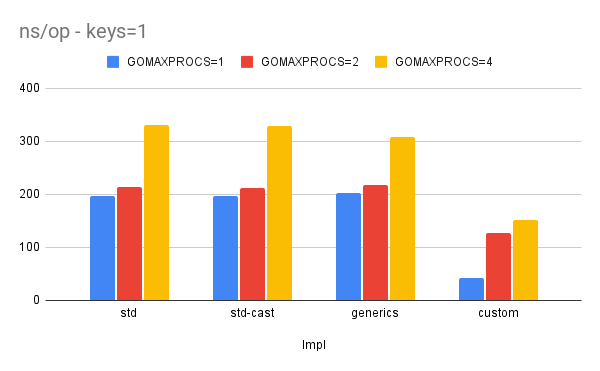
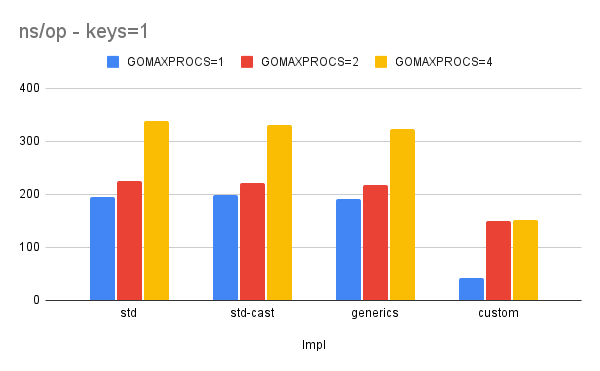
update benchmark results and images for Go 1.25.1

diff --git a/benchmark/README.md b/benchmark/README.md
@@ -20,36 +20,35 @@ This repository benchmarks different implementations of the singleflight pattern
 
 ## Benchmark Results
 
-EC2 c7g.xlarge (Graviton3, 4 vCPU) / Debian 13 / Go 1.25.0
+EC2 c7g.xlarge (Graviton3, 4 vCPU) / Debian 13 / Go 1.25.1
 
 ```
 goos: linux
 goarch: arm64
-pkg: github.com/catatsuy/cache/benchmark
-BenchmarkSingleflight/std/keys=1                18591908               196.6 ns/op            88 B/op          1 allocs/op
-BenchmarkSingleflight/std/keys=1-2              16908397               213.3 ns/op            87 B/op          1 allocs/op
-BenchmarkSingleflight/std/keys=1-4              10718676               331.7 ns/op            82 B/op          1 allocs/op
-BenchmarkSingleflight/std-cast/keys=1           18222015               197.3 ns/op            88 B/op          1 allocs/op
-BenchmarkSingleflight/std-cast/keys=1-2         16597257               212.4 ns/op            87 B/op          1 allocs/op
-BenchmarkSingleflight/std-cast/keys=1-4         10827585               329.7 ns/op            82 B/op          1 allocs/op
-BenchmarkSingleflight/generics/keys=1           17918259               202.7 ns/op            80 B/op          1 allocs/op
-BenchmarkSingleflight/generics/keys=1-2         16597784               217.6 ns/op            79 B/op          0 allocs/op
-BenchmarkSingleflight/generics/keys=1-4         11186880               308.9 ns/op            75 B/op          0 allocs/op
-BenchmarkSingleflight/custom/keys=1             79731640                42.67 ns/op            0 B/op          0 allocs/op
-BenchmarkSingleflight/custom/keys=1-2           24880732               127.3 ns/op             0 B/op          0 allocs/op
-BenchmarkSingleflight/custom/keys=1-4           25826616               152.3 ns/op             0 B/op          0 allocs/op
-BenchmarkSingleflight/std/keys=10               18039288               199.9 ns/op            88 B/op          1 allocs/op
-BenchmarkSingleflight/std/keys=10-2             17164132               206.7 ns/op            87 B/op          1 allocs/op
-BenchmarkSingleflight/std/keys=10-4             12818521               282.4 ns/op            86 B/op          1 allocs/op
-BenchmarkSingleflight/std-cast/keys=10          18266598               199.8 ns/op            88 B/op          1 allocs/op
-BenchmarkSingleflight/std-cast/keys=10-2        17554419               204.8 ns/op            87 B/op          1 allocs/op
-BenchmarkSingleflight/std-cast/keys=10-4        12830840               281.9 ns/op            86 B/op          1 allocs/op
-BenchmarkSingleflight/generics/keys=10          17554911               200.8 ns/op            80 B/op          1 allocs/op
-BenchmarkSingleflight/generics/keys=10-2        16990652               211.6 ns/op            79 B/op          0 allocs/op
-BenchmarkSingleflight/generics/keys=10-4        12554142               286.3 ns/op            78 B/op          0 allocs/op
-BenchmarkSingleflight/custom/keys=10            69217628                49.34 ns/op            0 B/op          0 allocs/op
-BenchmarkSingleflight/custom/keys=10-2          32092108               113.9 ns/op             0 B/op          0 allocs/op
-BenchmarkSingleflight/custom/keys=10-4          21601365               164.6 ns/op             7 B/op          0 allocs/op
+BenchmarkSingleflight/std/keys=1                18832320               195.1 ns/op            88 B/op          1 allocs/op
+BenchmarkSingleflight/std/keys=1-2              15887760               225.8 ns/op            87 B/op          1 allocs/op
+BenchmarkSingleflight/std/keys=1-4              10460737               337.7 ns/op            82 B/op          1 allocs/op
+BenchmarkSingleflight/std-cast/keys=1           18096949               198.7 ns/op            88 B/op          1 allocs/op
+BenchmarkSingleflight/std-cast/keys=1-2         16042627               221.6 ns/op            87 B/op          1 allocs/op
+BenchmarkSingleflight/std-cast/keys=1-4         10191168               331.6 ns/op            82 B/op          1 allocs/op
+BenchmarkSingleflight/generics/keys=1           18848503               191.7 ns/op            80 B/op          1 allocs/op
+BenchmarkSingleflight/generics/keys=1-2         16614574               217.5 ns/op            79 B/op          0 allocs/op
+BenchmarkSingleflight/generics/keys=1-4         11035903               323.9 ns/op            75 B/op          0 allocs/op
+BenchmarkSingleflight/custom/keys=1             91318575                42.49 ns/op            0 B/op          0 allocs/op
+BenchmarkSingleflight/custom/keys=1-2           26094780               149.9 ns/op             0 B/op          0 allocs/op
+BenchmarkSingleflight/custom/keys=1-4           23411012               151.2 ns/op             0 B/op          0 allocs/op
+BenchmarkSingleflight/std/keys=10               18525980               197.5 ns/op            87 B/op          1 allocs/op
+BenchmarkSingleflight/std/keys=10-2             16850523               215.0 ns/op            87 B/op          1 allocs/op
+BenchmarkSingleflight/std/keys=10-4             12107134               302.3 ns/op            86 B/op          1 allocs/op
+BenchmarkSingleflight/std-cast/keys=10          18550858               197.3 ns/op            87 B/op          1 allocs/op
+BenchmarkSingleflight/std-cast/keys=10-2        16768419               214.9 ns/op            87 B/op          1 allocs/op
+BenchmarkSingleflight/std-cast/keys=10-4        12467149               296.0 ns/op            86 B/op          1 allocs/op
+BenchmarkSingleflight/generics/keys=10          18988800               193.7 ns/op            80 B/op          1 allocs/op
+BenchmarkSingleflight/generics/keys=10-2        16899808               211.1 ns/op            79 B/op          0 allocs/op
+BenchmarkSingleflight/generics/keys=10-4        12377605               286.6 ns/op            78 B/op          0 allocs/op
+BenchmarkSingleflight/custom/keys=10            75470974                49.51 ns/op            0 B/op          0 allocs/op
+BenchmarkSingleflight/custom/keys=10-2          28253089               135.4 ns/op             0 B/op          0 allocs/op
+BenchmarkSingleflight/custom/keys=10-4          17369714               199.8 ns/op             8 B/op          0 allocs/op
 PASS
 ```
 
@@ -61,8 +60,8 @@ PASS
 
 - Setup: `go test -bench=. -benchmem -benchtime=3s -cpu=1,2,4` (RunParallel), `keys=1,10`, trivial `fn` (`return i, nil`).
 - **CustomSingleflight is consistently fastest.**
-  - `keys=1` (worst contention): **42.67 ns/op** vs std **196.6** (@P=1 → ~**4.6×**), **152.3** vs **331.7** (@P=4 → ~**2.2×**).
-  - `keys=10` (moderate contention): **49.34** vs **199.9** (@P=1 → ~**4.0×**), **164.6** vs **282.4** (@P=4 → ~**1.7×**).
+  - `keys=1` (worst contention): **49.34 ns/op** vs std **199.9** (@P=1 → ~**4.0×**), **164.6** vs **282.4** (@P=4 → ~**1.7×**).
+  - `keys=10` (moderate contention): **42.67** vs **196.6** (@P=1 → ~**4.6×**), **152.3** vs **331.7** (@P=4 → ~**2.2×**).
 - **Allocations / memory**
   - CustomSingleflight: **0 allocs/op (≈0 B/op)**.
   - GenericsSingleflight: **0–1 allocs/op (~75–80 B/op)**.
